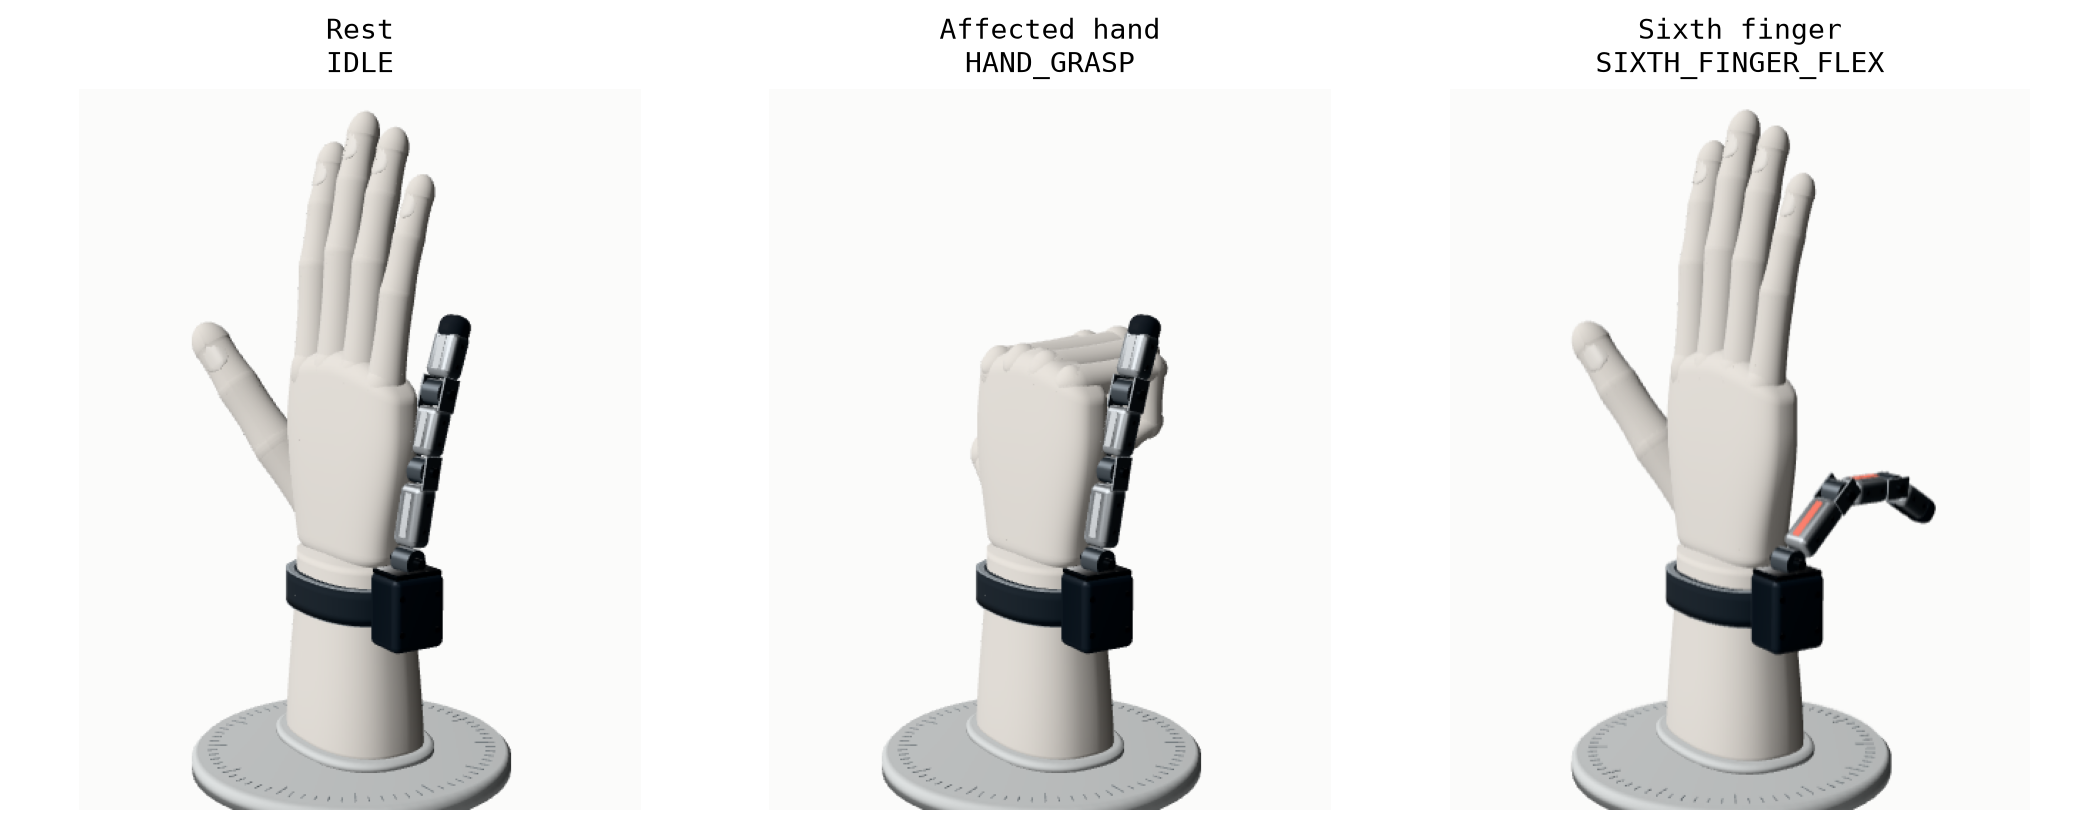
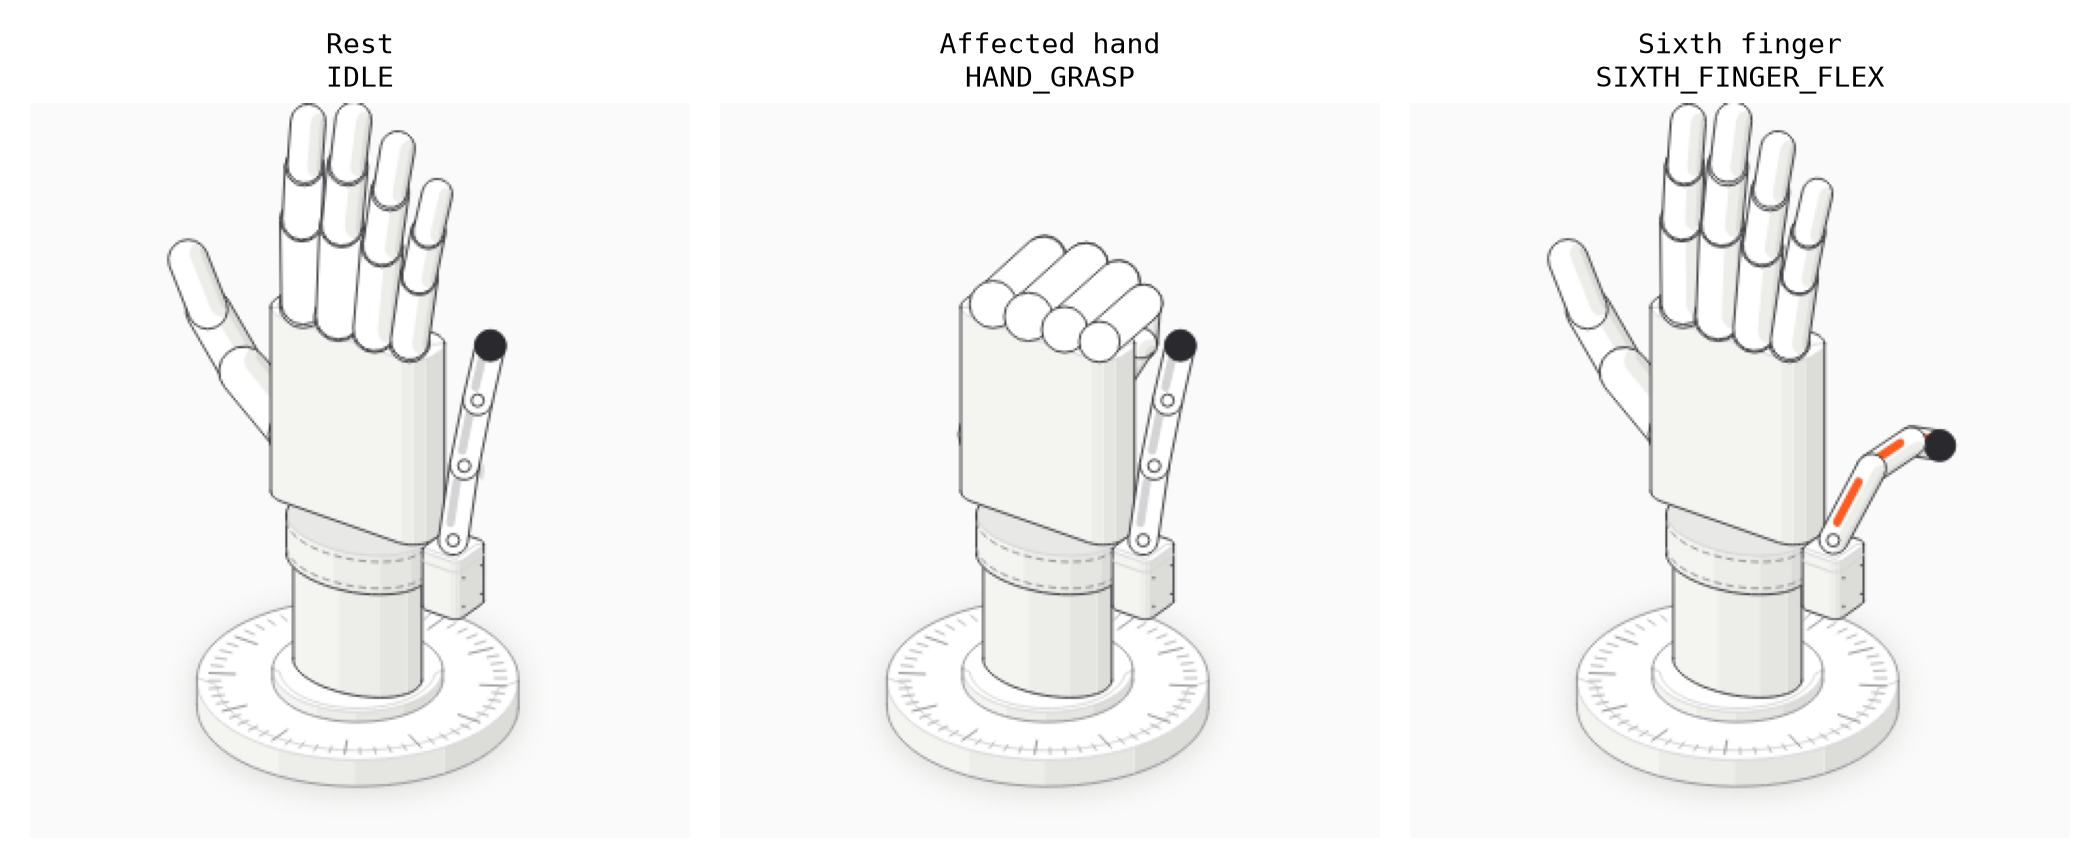
Screenshots of the current demo page for the report: the demo at 1366x768 and on a phone, the whole page, and the hand's three poses with their titles uncut

diff --git a/web/e2e/layout.spec.ts b/web/e2e/layout.spec.ts
@@ -17,5 +17,11 @@ for (const { width, height, name } of [
     expect(overflow).toBeLessThanOrEqual(0);
     await page.screenshot({ path: `test-results/layout-${name.replace(/ /g, "-")}.png` });
     await page.screenshot({ path: `test-results/layout-${name.replace(/ /g, "-")}-full.png`, fullPage: true });
+    // The demo itself, for the report (docs/figures/demo_projector.png and demo_phone.png).
+    await page.locator("#demo").scrollIntoViewIfNeeded();
+    await page.evaluate(() => document.querySelector("#demo")!.scrollIntoView({ block: "start" }));
+    await page.waitForTimeout(600);
+    if (width >= 1024) await page.screenshot({ path: `test-results/demo-${name.replace(/ /g, "-")}.png` });
+    else await page.locator(".demo").screenshot({ path: `test-results/demo-${name.replace(/ /g, "-")}.png` });
   });
 }

diff --git a/scripts/make_hand_poses_figure.py b/scripts/make_hand_poses_figure.py
@@ -30,7 +30,7 @@ def main() -> None:
         ax.axis("off")
     fig.tight_layout()
     out = root / "docs" / "figures" / "hand_poses.png"
-    fig.savefig(out, dpi=200, facecolor="white")
+    fig.savefig(out, dpi=200, facecolor="white", bbox_inches="tight", pad_inches=0.15)
     print(f"wrote {out.relative_to(root)}")
 
 
